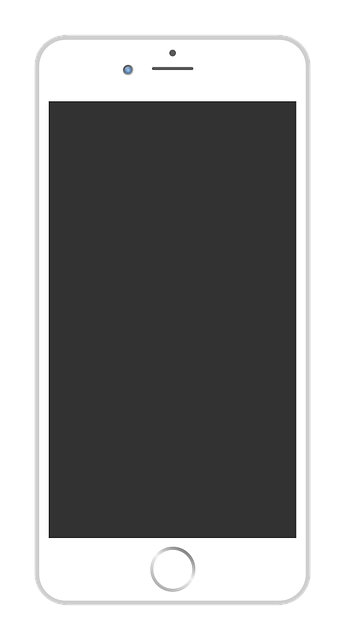
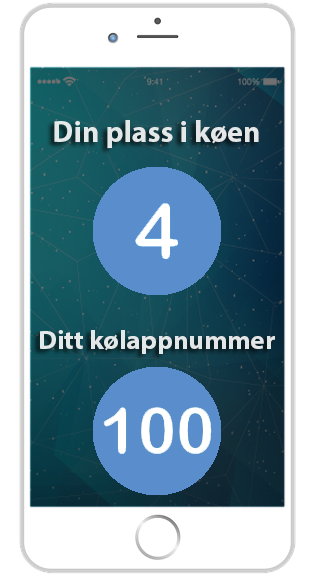
app bilder lagt til

diff --git a/webpage/index.html b/webpage/index.html
@@ -47,7 +47,6 @@
 	<!-- Front Page -->
 		<div id="front_page">
 			<div id="heading">
-				<p><em>Lei av å vente i køer?</em></p>
 				<h1>Vi stiller oss i køen for deg!</h1>
 			</div>
 			
@@ -70,6 +69,34 @@
 			<div class="content">
 				<h1>Artikkel</h1>
 				<p>Lorem ipsum dolor sit amet, consectetur adipiscing elit, sed do eiusmod tempor incididunt ut labore et dolore magna aliqua. Ut enim ad minim veniam, quis nostrud exercitation ullamco laboris nisi ut aliquip ex ea commodo consequat. Duis aute irure dolor in reprehenderit in voluptate velit esse cillum dolore eu fugiat nulla pariatur. Excepteur sint occaecat cupidatat non proident, sunt in culpa qui officia deserunt mollit anim id est laborum.</p>
+
+				<table>
+					<tr>
+		        		<th colspan="3"><h2>Slik funker det</h2></th>
+              		</tr>
+              		<tr>
+                		<td>
+                			<img  src="images/app1.png" alt="app1">
+                		</td>
+                		<td>
+                			<img  src="images/app2.png" alt="app2">
+                		</td>
+                		<td>
+                			<img  src="images/app3.png" alt="app3">
+		            	</td>
+              		</tr>
+              		<tr>
+              			<td>
+              				<p>Skaff deg QueueDrop på mobilen eller nettbrettet. Applikasjonen vår er helt gratis og lett tilgjengelig for alle mobile platformer.</p>
+                		</td>
+                		<td>
+                			<p>Skaff deg QueueDrop på mobilen eller nettbrettet. Applikasjonen vår er helt gratis og lett tilgjengelig for alle mobile platformer.</p>
+                		</td>
+                		<td>
+                			<p>Skaff deg QueueDrop på mobilen eller nettbrettet. Applikasjonen vår er helt gratis og lett tilgjengelig for alle mobile platformer.</p>
+		            	</td>
+              		</tr>
+			</table>			
 			</div>
 		</div>
 
@@ -81,17 +108,7 @@
 				<p>At vero eos et accusamus et iusto odio dignissimos ducimus qui blanditiis praesentium voluptatum deleniti atque corrupti quos dolores et quas molestias excepturi sint occaecati cupiditate non provident, similique sunt in culpa qui officia deserunt mollitia animi, id est laborum et dolorum fuga. Et harum quidem rerum facilis est et expedita distinctio. Nam libero tempore, cum soluta nobis est eligendi optio cumque nihil impedit quo minus id quod maxime placeat facere possimus, omnis voluptas assumenda est, omnis dolor repellendus. Temporibus autem quibusdam et aut officiis debitis aut rerum necessitatibus saepe eveniet ut et voluptates repudiandae sint et molestiae non recusandae. Itaque earum rerum hic tenetur a sapiente delectus, ut aut reiciendis voluptatibus maiores alias consequatur aut perferendis doloribus asperiores repellat.</p>
 			</div>
 		</div>
-		<div id="main4">
-			<div class="content">
-				<h1>Sahand sine</h1>
-				<p>
-					widget, bestilling, utsettelse, 
-					UDI, Politi, posten, lege, apotek,
-					timebestilling
-
-				</p>
-			</div>
-		</div>
+		
 	<!-- Footer -->
 		<div id="footer">
 			<table>

diff --git a/webpage/styles/main.css b/webpage/styles/main.css
@@ -176,16 +176,13 @@ h1 {
 	text-align: justify;
 }
 
+#main2 table img {
+	width: 60%;
+	height: auto;
+}
+
 #main3 {
 	background-color: #fff;
-	width: 100%;
-	height: auto;
-	padding-top: 50px;
-	padding-bottom: 50px;
-	text-align: justify;
-}
-#main4 {
-	background-color: #4c82c8;
 	width: 100%;
 	height: auto;
 	padding-top: 50px;
